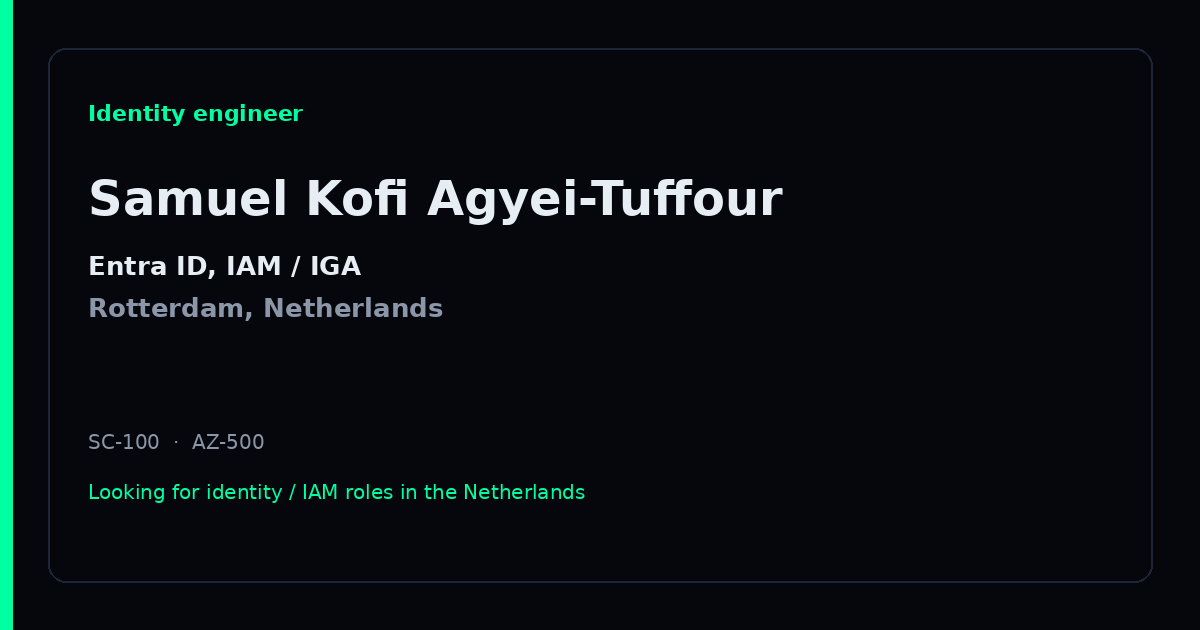
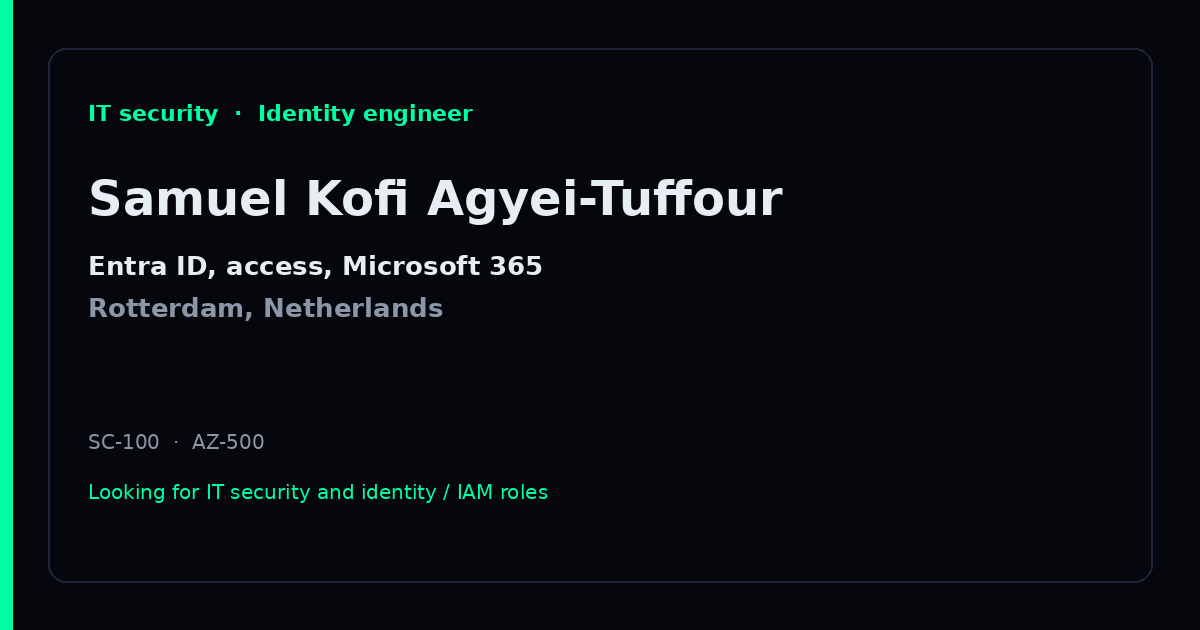
Position the site as IT security and identity engineer
Keep identity as the work, and name the Microsoft estate, access reviews,
and audit evidence so IT security analyst roles can scan it too.

Changed region(s): [[0.0617, 0.1508, 0.4008, 0.2111], [0.1542, 0.754, 0.4933, 0.8143], [0.185, 0.3921, 0.4625, 0.4524]]

diff --git a/index.html b/index.html
@@ -3,21 +3,21 @@
 <head>
   <meta charset="UTF-8" />
   <meta name="viewport" content="width=device-width, initial-scale=1.0" />
-  <meta name="description" content="Samuel Kofi Agyei-Tuffour — Identity Engineer in Rotterdam. Entra ID, IAM / IGA, and the systems around them." />
+  <meta name="description" content="Samuel Kofi Agyei-Tuffour — IT Security and Identity Engineer in Rotterdam. Entra ID, access, Microsoft 365, ISO 27001." />
   <meta name="theme-color" content="#05070d" />
   <link rel="canonical" href="https://leufi.github.io/skat/" />
-  <meta property="og:title" content="Samuel Kofi Agyei-Tuffour | Identity Engineer" />
-  <meta property="og:description" content="I run identity for Microsoft environments. Open to identity / IAM roles in the Netherlands." />
+  <meta property="og:title" content="Samuel Kofi Agyei-Tuffour | IT Security &amp; Identity Engineer" />
+  <meta property="og:description" content="IT security through identity. Entra ID, access, Microsoft 365. Open to IT security and identity / IAM roles in the Netherlands." />
   <meta property="og:type" content="website" />
   <meta property="og:url" content="https://leufi.github.io/skat/" />
   <meta property="og:image" content="https://leufi.github.io/skat/og-card.png" />
   <meta property="og:image:width" content="1200" />
   <meta property="og:image:height" content="630" />
   <meta name="twitter:card" content="summary_large_image" />
-  <meta name="twitter:title" content="Samuel Kofi Agyei-Tuffour | Identity Engineer" />
-  <meta name="twitter:description" content="Identity engineer in Rotterdam. Entra ID, IAM / IGA." />
+  <meta name="twitter:title" content="Samuel Kofi Agyei-Tuffour | IT Security &amp; Identity Engineer" />
+  <meta name="twitter:description" content="IT security and identity engineer in Rotterdam. Entra ID, access, Microsoft 365." />
   <meta name="twitter:image" content="https://leufi.github.io/skat/og-card.png" />
-  <title>Samuel Kofi Agyei-Tuffour | Identity Engineer</title>
+  <title>Samuel Kofi Agyei-Tuffour | IT Security &amp; Identity Engineer</title>
   <link rel="preconnect" href="https://fonts.googleapis.com" />
   <link rel="preconnect" href="https://fonts.gstatic.com" crossorigin />
   <link href="https://fonts.googleapis.com/css2?family=Inter:wght@400;500;600;700&display=swap" rel="stylesheet" />
@@ -46,12 +46,13 @@
     <div class="container">
       <div class="hero-grid">
         <div class="hero-content fade-in">
-          <p class="hero-kicker">Identity engineer · Rotterdam</p>
+          <p class="hero-kicker">IT security · Identity engineer · Rotterdam</p>
           <h1 class="hero-name">Samuel Kofi Agyei-Tuffour</h1>
           <p class="hero-lede">
-            I build identity systems so security fits how the business actually runs.
-            Entra ID, Conditional Access, access packages, joiner / mover / leaver —
-            people get in when they should, and they are out when they leave.
+            I do IT security through identity. Entra ID, Conditional Access,
+            SharePoint and Atlassian access, joiner / mover / leaver —
+            people get in when they should, they are out when they leave,
+            and I can prove it for an audit.
           </p>
 
           <div class="hero-cta">
@@ -61,7 +62,7 @@
             <a href="https://www.linkedin.com/in/s-k-agyei-tuffour" target="_blank" rel="noopener" class="btn btn-outline">
               <span>LinkedIn</span>
             </a>
-            <a href="mailto:kofileumas@gmail.com?subject=Identity%20/%20IAM%20role%20in%20the%20Netherlands" class="btn btn-outline">
+            <a href="mailto:kofileumas@gmail.com?subject=IT%20security%20/%20identity%20role%20in%20the%20Netherlands" class="btn btn-outline">
               <span>Email</span>
             </a>
           </div>
@@ -75,7 +76,7 @@
               <span class="meta-label">Looking for</span>
               <span class="meta-value status-open">
                 <span class="status-dot"></span>
-                Identity / IAM roles in the Netherlands
+                IT security and identity / IAM roles in the Netherlands
               </span>
             </div>
           </div>
@@ -120,16 +121,17 @@
         <div class="fade-in about-text">
           <p>
             I'm an identity engineer on the SysOps team at Hunt&amp;Hackett. There
-            are two of us. We own <span class="hl">Entra ID</span>, Azure, Intune,
-            SharePoint, Atlassian, and 1Password — Conditional Access, access packages,
-            joiner / mover / leaver, the identity setup the company actually runs on.
+            are two of us. We own the IT security of access:
+            <span class="hl">Entra ID</span>, Azure, Intune, SharePoint, Atlassian,
+            and 1Password — Conditional Access, access packages, joiner / mover /
+            leaver, break-glass, the setup the company actually runs on.
             I also write the automation (Python, Django, Graph, Logic Apps) so that
             work is not a pile of tickets.
           </p>
           <p>
-            I want more of the hard identity problems: where the business needs one
-            thing and the directory wants another, and you have to make security
-            fit without making everyone hate it.
+            I want IT security roles where identity is the work: who can open which
+            app, leftover accounts, SharePoint and Atlassian permissions, and
+            evidence for ISO 27001 — not a SOC queue.
           </p>
         </div>
 
@@ -211,7 +213,7 @@
       <div class="expertise-grid">
         <div class="expertise-card fade-in">
           <div class="exp-head">
-            <span class="exp-title">Entra and lifecycle</span>
+            <span class="exp-title">Identity and access</span>
           </div>
           <div class="exp-body">
             <p class="exp-copy">Joiner to leaver, access reviews, PIM, Conditional Access.</p>
@@ -230,10 +232,10 @@
 
         <div class="expertise-card fade-in">
           <div class="exp-head">
-            <span class="exp-title">The rest of the estate</span>
+            <span class="exp-title">Workplace IT security</span>
           </div>
           <div class="exp-body">
-            <p class="exp-copy">SharePoint, Jira, Intune, and 1Password have to follow the same rules as Entra.</p>
+            <p class="exp-copy">SharePoint, Jira, Intune, and 1Password follow the same access rules as Entra — including break-glass and reviews.</p>
             <div class="tag-list">
               <span class="tag">Microsoft 365</span>
               <span class="tag">Intune</span>
@@ -241,6 +243,7 @@
               <span class="tag">Atlassian</span>
               <span class="tag">1Password</span>
               <span class="tag">Break-glass</span>
+              <span class="tag">Access reviews</span>
             </div>
           </div>
         </div>
@@ -263,10 +266,10 @@
 
         <div class="expertise-card fade-in">
           <div class="exp-head">
-            <span class="exp-title">Audit evidence</span>
+            <span class="exp-title">Security audits</span>
           </div>
           <div class="exp-body">
-            <p class="exp-copy">I pull the story from the logs for ISO 27001 and SOC 2.</p>
+            <p class="exp-copy">I pull the story from identity logs for ISO 27001 and SOC 2 — not a folder of screenshots.</p>
             <div class="tag-list">
               <span class="tag">ISO 27001</span>
               <span class="tag">SOC 2</span>
@@ -300,9 +303,9 @@
             </div>
             <ul class="timeline-achievements">
               <li>
-                One of two people on SysOps. We own Entra ID, Azure, Intune,
-                SharePoint access, Atlassian, and 1Password — including break-glass
-                and access reviews.
+                One of two people on SysOps. We own the IT security of Entra ID,
+                Azure, Intune, SharePoint, Atlassian, and 1Password — including
+                break-glass and access reviews.
               </li>
               <li>
                 Conditional Access, PIM, and Entra ID Governance so least privilege
@@ -408,6 +411,7 @@
             <div class="tag-list">
               <span class="tag">Microsoft Graph</span>
               <span class="tag">Entra ID</span>
+              <span class="tag">Access reviews</span>
               <span class="tag">JML</span>
             </div>
           </div>
@@ -518,11 +522,11 @@
     <div class="container">
       <div class="contact-intro fade-in">
         <h2 class="section-title">Get in touch</h2>
-        <p class="contact-lede">I'm in Rotterdam. Looking for identity / IAM engineering roles in the Netherlands.</p>
+        <p class="contact-lede">I'm in Rotterdam. Looking for IT security and identity / IAM roles in the Netherlands.</p>
       </div>
       <div class="contact-container fade-in">
         <div class="contact-list">
-          <a href="mailto:kofileumas@gmail.com?subject=Identity%20/%20IAM%20role%20in%20the%20Netherlands" class="contact-method">
+          <a href="mailto:kofileumas@gmail.com?subject=IT%20security%20/%20identity%20role%20in%20the%20Netherlands" class="contact-method">
             <span class="cm-prefix">Email</span>
             <span class="cm-value">kofileumas@gmail.com</span>
           </a>

diff --git a/cv.html b/cv.html
@@ -3,8 +3,8 @@
 <head>
   <meta charset="UTF-8" />
   <meta name="viewport" content="width=device-width, initial-scale=1.0" />
-  <meta name="description" content="CV — Samuel Kofi Agyei-Tuffour, Identity Engineer. Entra ID, IAM / IGA, Microsoft 365, Azure. Rotterdam, Netherlands." />
-  <title>Samuel Kofi Agyei-Tuffour — Identity Engineer CV</title>
+  <meta name="description" content="CV — Samuel Kofi Agyei-Tuffour, IT Security and Identity Engineer. Entra ID, Microsoft 365, IAM, ISO 27001. Rotterdam, Netherlands." />
+  <title>Samuel Kofi Agyei-Tuffour — IT Security &amp; Identity Engineer CV</title>
   <link rel="stylesheet" href="css/style.css" />
   <link rel="preconnect" href="https://fonts.googleapis.com" />
   <link rel="preconnect" href="https://fonts.gstatic.com" crossorigin />
@@ -20,26 +20,26 @@
     <header class="cv-header">
       <div>
         <h1>Samuel Kofi Agyei-Tuffour</h1>
-        <p class="cv-title">Identity Engineer · Entra ID · IAM / IGA</p>
+        <p class="cv-title">IT Security &amp; Identity Engineer · Entra ID · Microsoft 365</p>
       </div>
       <ul class="cv-contacts">
         <li>Rotterdam, Netherlands</li>
         <li><a href="mailto:kofileumas@gmail.com">kofileumas@gmail.com</a></li>
         <li><a href="https://www.linkedin.com/in/s-k-agyei-tuffour">linkedin.com/in/s-k-agyei-tuffour</a></li>
-        <li>Open to Identity / IAM engineering roles in the Netherlands</li>
+        <li>Open to IT security and identity / IAM roles in the Netherlands</li>
       </ul>
     </header>
 
     <section>
       <h2>Profile</h2>
       <p>
-        Identity engineer. I came into this after a bank my father's firm guarded
-        was hit through a compromised identity. Telecom diploma, then computer
-        science (identity and access control), then a cybersecurity master's on
-        IAM and GRC. SevenX was part-time while I was still in school. After a year
-        in the Hunt&amp;Hackett SOC I moved to SysOps, where I am one of two people
-        who own Entra ID, Azure, Intune, SharePoint, Atlassian, and 1Password.
-        SC-100 (2026), AZ-500 (2025).
+        IT security and identity engineer. I came into this after a bank my father's
+        firm guarded was hit through a compromised identity. Telecom diploma, then
+        computer science (identity and access control), then a cybersecurity master's
+        on IAM and GRC. SevenX was part-time while I was still in school. After a year
+        in the Hunt&amp;Hackett SOC I moved to SysOps, where I own the IT security of
+        Entra ID, Azure, Intune, SharePoint, Atlassian, and 1Password — access reviews,
+        break-glass, joiner / mover / leaver. SC-100 (2026), AZ-500 (2025).
       </p>
     </section>
 
@@ -51,7 +51,7 @@
           <span>The Hague, NL · Jan 2025 – Present</span>
         </div>
         <ul>
-          <li>One of two on SysOps. Own Entra ID, Azure, Intune, SharePoint, Atlassian, and 1Password — including break-glass and access reviews.</li>
+          <li>One of two on SysOps. Own the IT security of Entra ID, Azure, Intune, SharePoint, Atlassian, and 1Password — including break-glass and access reviews.</li>
           <li>Enterprise Zero Trust with Conditional Access, PIM, and Entra ID Governance.</li>
           <li>IAM automation platform (Django, Graph API) that cut access-review effort by 25%.</li>
           <li>Passwordless (YubiKey) and Intune-managed workspaces; 15% lower identity risk metrics.</li>
@@ -82,6 +82,7 @@
     <section>
       <h2>Selected work</h2>
       <ul>
+        <li><strong>Access Register</strong> — Who can open which Entra app, including group-granted access, plus leftover M365 accounts after people leave.</li>
         <li><strong>grurpID</strong> — JML platform for employee account lifecycle and access; 25% less manual IAM effort.</li>
         <li><strong>ExitScan</strong> — Leaver offboarding and orphaned-account detection across downstream apps.</li>
         <li><strong>AuditVault</strong> — ISO 27001 evidence packs from identity logs (no screenshot hunts).</li>
@@ -91,7 +92,7 @@
     <section>
       <h2>Skills</h2>
       <p><strong>Identity:</strong> Entra ID, PIM, Conditional Access, FIDO2, JML, access reviews, IAM / IGA.</p>
-      <p><strong>Also:</strong> Azure, Intune, SharePoint, Atlassian, 1Password.</p>
+      <p><strong>IT security:</strong> Microsoft 365, Intune, SharePoint permissions, Atlassian, 1Password, break-glass.</p>
       <p><strong>Automation:</strong> Python, Django, Microsoft Graph API, Logic Apps.</p>
       <p><strong>Audits:</strong> ISO 27001, SOC 2, evidence from identity logs.</p>
     </section>

diff --git a/css/style.css b/css/style.css
@@ -437,7 +437,7 @@ code, .mono { font-family: var(--mono); }
   display: flex;
   align-items: flex-start;
   gap: 0.45rem;
-  max-width: 22rem;
+  max-width: 28rem;
   white-space: normal;
   line-height: 1.4;
 }

diff --git a/scripts/generate_cv_pdf.py b/scripts/generate_cv_pdf.py
@@ -48,25 +48,26 @@ def main():
         rightMargin=16 * mm,
         topMargin=14 * mm,
         bottomMargin=12 * mm,
-        title="Samuel Kofi Agyei-Tuffour — Identity Engineer CV",
+        title="Samuel Kofi Agyei-Tuffour — IT Security & Identity Engineer CV",
         author="Samuel Kofi Agyei-Tuffour",
     )
     story = [
         Paragraph("Samuel Kofi Agyei-Tuffour", s["name"]),
-        Paragraph("Identity Engineer · Entra ID · IAM / IGA", s["role"]),
+        Paragraph("IT Security &amp; Identity Engineer · Entra ID · Microsoft 365", s["role"]),
         Paragraph(
             "Rotterdam, Netherlands · kofileumas@gmail.com · linkedin.com/in/s-k-agyei-tuffour<br/>"
-            "Open to identity / IAM engineering roles in the Netherlands",
+            "Open to IT security and identity / IAM roles in the Netherlands",
             s["meta"],
         ),
         Paragraph("PROFILE", s["h"]),
         Paragraph(
-            "Identity engineer. I came into this after a bank my father's firm guarded was hit "
-            "through a compromised identity. Telecom diploma, then computer science (identity and "
-            "access control), then a cybersecurity master's on IAM and GRC. SevenX was part-time "
-            "while I was still in school. After a year in the Hunt&amp;Hackett SOC I moved to "
-            "SysOps, where I am one of two people who own Entra ID, Azure, Intune, SharePoint, "
-            "Atlassian, and 1Password. SC-100 (2026), AZ-500 (2025).",
+            "IT security and identity engineer. I came into this after a bank my father's firm "
+            "guarded was hit through a compromised identity. Telecom diploma, then computer "
+            "science (identity and access control), then a cybersecurity master's on IAM and GRC. "
+            "SevenX was part-time while I was still in school. After a year in the Hunt&amp;Hackett "
+            "SOC I moved to SysOps, where I own the IT security of Entra ID, Azure, Intune, "
+            "SharePoint, Atlassian, and 1Password — access reviews, break-glass, joiner / mover / "
+            "leaver. SC-100 (2026), AZ-500 (2025).",
             s["body"],
         ),
         Paragraph("EXPERIENCE", s["h"]),
@@ -74,7 +75,7 @@ def main():
         Paragraph("The Hague, NL · Jan 2025 – Present", s["when"]),
         bullets(
             [
-                "One of two on SysOps. Own Entra ID, Azure, Intune, SharePoint, Atlassian, and 1Password — including break-glass and access reviews.",
+                "One of two on SysOps. Own the IT security of Entra ID, Azure, Intune, SharePoint, Atlassian, and 1Password — including break-glass and access reviews.",
                 "Enterprise Zero Trust with Conditional Access, PIM, and Entra ID Governance.",
                 "IAM automation platform (Django, Graph API) that cut access-review effort by 25%.",
                 "Passwordless (YubiKey) and Intune-managed workspaces; 15% lower identity risk metrics.",
@@ -102,6 +103,7 @@ def main():
         Paragraph("SELECTED WORK", s["h"]),
         bullets(
             [
+                "<b>Access Register</b> — Who can open which Entra app, including group-granted access, plus leftover M365 accounts.",
                 "<b>grurpID</b> — JML platform for employee account lifecycle and access; 25% less manual IAM effort.",
                 "<b>ExitScan</b> — Leaver offboarding and orphaned-account detection across downstream apps.",
                 "<b>AuditVault</b> — ISO 27001 evidence packs from identity logs.",
@@ -111,7 +113,7 @@ def main():
         Paragraph("SKILLS", s["h"]),
         Paragraph(
             "<b>Identity:</b> Entra ID, PIM, Conditional Access, FIDO2, JML, access reviews, IAM / IGA.<br/>"
-            "<b>Also:</b> Azure, Intune, SharePoint, Atlassian, 1Password.<br/>"
+            "<b>IT security:</b> Microsoft 365, Intune, SharePoint permissions, Atlassian, 1Password, break-glass.<br/>"
             "<b>Automation:</b> Python, Django, Microsoft Graph API, Logic Apps.<br/>"
             "<b>Audits:</b> ISO 27001, SOC 2, evidence from identity logs.",
             s["body"],

diff --git a/scripts/generate_og_card.py b/scripts/generate_og_card.py
@@ -36,13 +36,13 @@ name = font(48, bold=True)
 role = font(26, bold=True)
 meta = font(20)
 
-d.text((88, 100), "Identity engineer", fill=green, font=kicker)
+d.text((88, 100), "IT security  ·  Identity engineer", fill=green, font=kicker)
 d.text((88, 170), "Samuel Kofi Agyei-Tuffour", fill=text, font=name)
-d.text((88, 250), "Entra ID, IAM / IGA", fill=text, font=role)
+d.text((88, 250), "Entra ID, access, Microsoft 365", fill=text, font=role)
 d.text((88, 292), "Rotterdam, Netherlands", fill=dim, font=role)
 
 d.text((88, 430), "SC-100  ·  AZ-500", fill=dim, font=meta)
-d.text((88, 480), "Looking for identity / IAM roles in the Netherlands", fill=green, font=meta)
+d.text((88, 480), "Looking for IT security and identity / IAM roles", fill=green, font=meta)
 
 img.save(OUT, "PNG", optimize=True)
 print(f"wrote {OUT} {OUT.stat().st_size} bytes")
